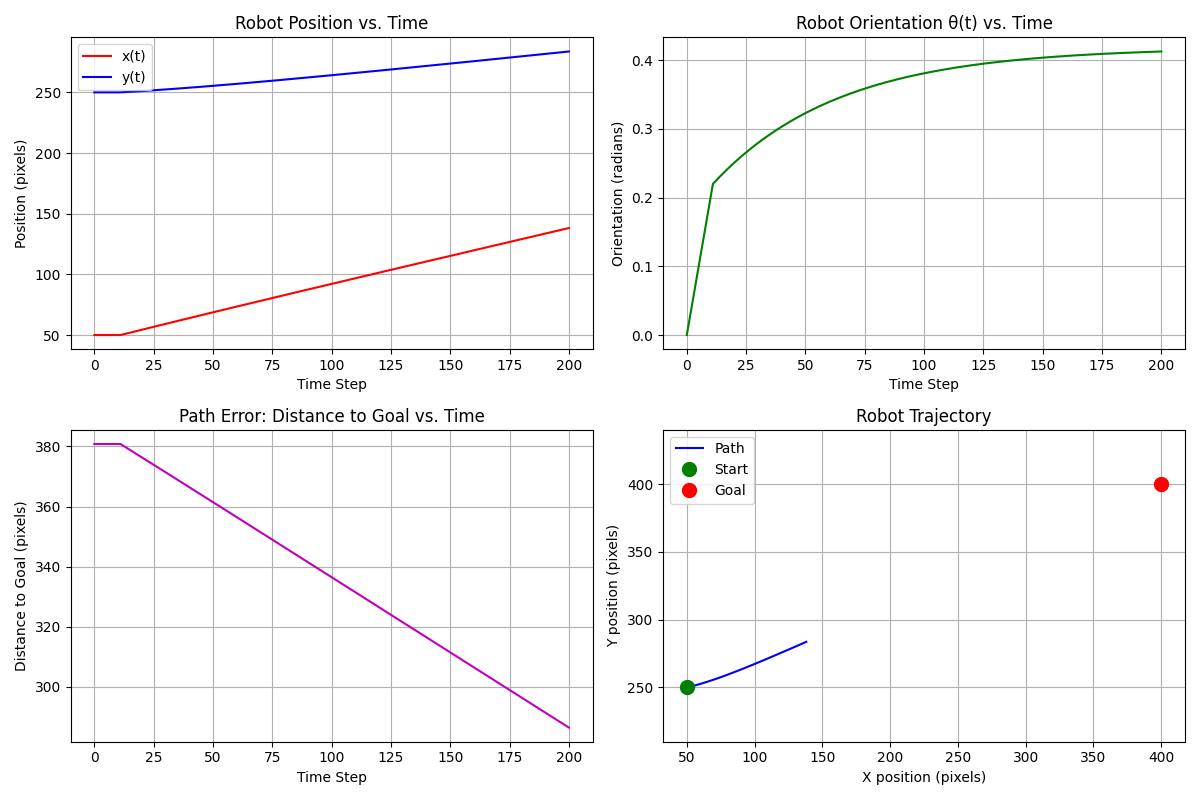
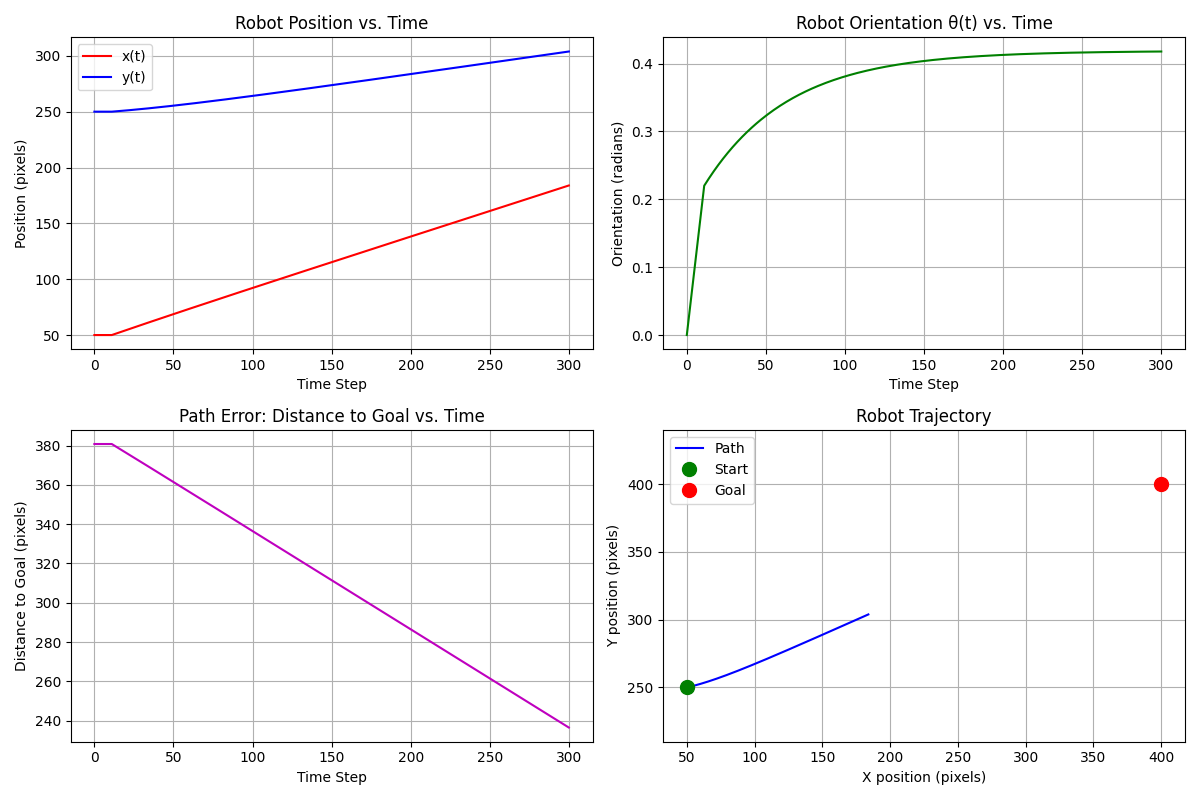
Added main integration script that combines detection and simulation

diff --git a/src/main_integration.py b/src/main_integration.py
@@ -1,0 +1,108 @@
+# main_integration.py
+# This is the main script that integrates object detection with robot simulation.
+from object_detection import detect_apple
+from robot_simulation import DifferentialDriveRobot
+import cv2
+import numpy as np
+
+def run_full_simulation(world_image_path):
+    """
+    Runs the complete integrated simulation:
+    1. Detect the apple in the world image to get the goal coordinates.
+    2. Simulate the robot navigating to those coordinates.
+    3. Generate and save all performance plots.
+    """
+    print("="*50)
+    print("STARTING INTEGRATED SIMULATION")
+    print("="*50)
+    
+    # STEP 1: OBJECT DETECTION
+    print("\n1. Detecting apple in the world...")
+    goal_point = detect_apple(world_image_path, show_windows=True)
+    
+    if goal_point is None:
+        print("ERROR: Could not find the apple. Cannot run simulation.")
+        return
+    
+    goal_x, goal_y = goal_point
+    print(f"Apple detected at: ({goal_x}, {goal_y})")
+    
+    # STEP 2: ROBOT SIMULATION
+    print("\n2. Starting robot simulation to the detected goal...")
+    # Create a robot instance starting at (50, 250), facing right (0 radians)
+    robot = DifferentialDriveRobot(x=50, y=250, theta=0)
+    
+    # Simulation parameters
+    dt = 0.1  # Time step
+    max_steps = 300  # Maximum number of steps to simulate
+    reached_goal = False
+    
+    for step in range(max_steps):
+        # Get the current robot position
+        x, y, theta = robot.get_pose()
+        
+        # Calculate distance and angle to the goal
+        distance_to_goal = np.sqrt((goal_x - x)**2 + (goal_y - y)**2)
+        angle_to_goal = np.arctan2(goal_y - y, goal_x - x)
+        
+        # Simple go-to-goal controller
+        if distance_to_goal < 15:  # If we are close to the goal, stop
+            print("Goal reached!")
+            reached_goal = True
+            break
+            
+        # Calculate the angle difference (error)
+        angle_error = angle_to_goal - theta
+        # Normalize the angle error to [-pi, pi]
+        angle_error = (angle_error + np.pi) % (2 * np.pi) - np.pi
+        
+        # Set base forward velocity
+        base_speed = 5.0
+        # Adjust wheel speeds based on angle error
+        if abs(angle_error) > 0.2:  # If error is large, turn in place
+            v_left = -np.sign(angle_error) * 2.0
+            v_right = np.sign(angle_error) * 2.0
+        else:  # Otherwise, move forward while correcting
+            v_left = base_speed - 2.0 * angle_error
+            v_right = base_speed + 2.0 * angle_error
+            
+        # Move the robot
+        robot.move(v_left, v_right, dt)
+        
+        # Print progress every 25 steps
+        if step % 25 == 0:
+            print(f"Step {step}: Position ({x:.1f}, {y:.1f}), Distance: {distance_to_goal:.1f}")
+    
+    if not reached_goal:
+        print(f"Stopped after {max_steps} steps. Final distance: {distance_to_goal:.1f}")
+        
+    # STEP 3: GENERATE RESULTS
+    print("\n3. Generating performance plots and visualization...")
+    # Generate the four performance plots
+    robot.plot_performance(goal_x, goal_y)
+    
+    # Create a final visualization video (optional) or image
+    world_image = cv2.imread(world_image_path)
+    for i, (x, y) in enumerate(zip(robot.path_x, robot.path_y)):
+        # Draw the robot's path on the world image
+        cv2.circle(world_image, (int(x), int(y)), 2, (255, 0, 0), -1)  # Blue path
+        # Draw the robot's current position
+        if i == len(robot.path_x) - 1:  # Draw last position larger
+            cv2.circle(world_image, (int(x), int(y)), 8, (0, 0, 255), -1)  # Red final position
+    
+    # Draw start and goal
+    cv2.circle(world_image, (int(robot.path_x[0]), int(robot.path_y[0])), 8, (0, 255, 0), -1)  # Green start
+    cv2.circle(world_image, (goal_x, goal_y), 8, (0, 0, 255), -1)  # Red goal
+    
+    # Save the final visualized world
+    output_path = '../results/final_navigation_result.png'
+    cv2.imwrite(output_path, world_image)
+    print(f"Final navigation visualization saved to: {output_path}")
+    
+    print("\n" + "="*50)
+    print("SIMULATION COMPLETE")
+    print("="*50)
+
+if __name__ == "__main__":
+    # Run the complete simulation on our simulated world
+    run_full_simulation('../data/simulated_world.png')
